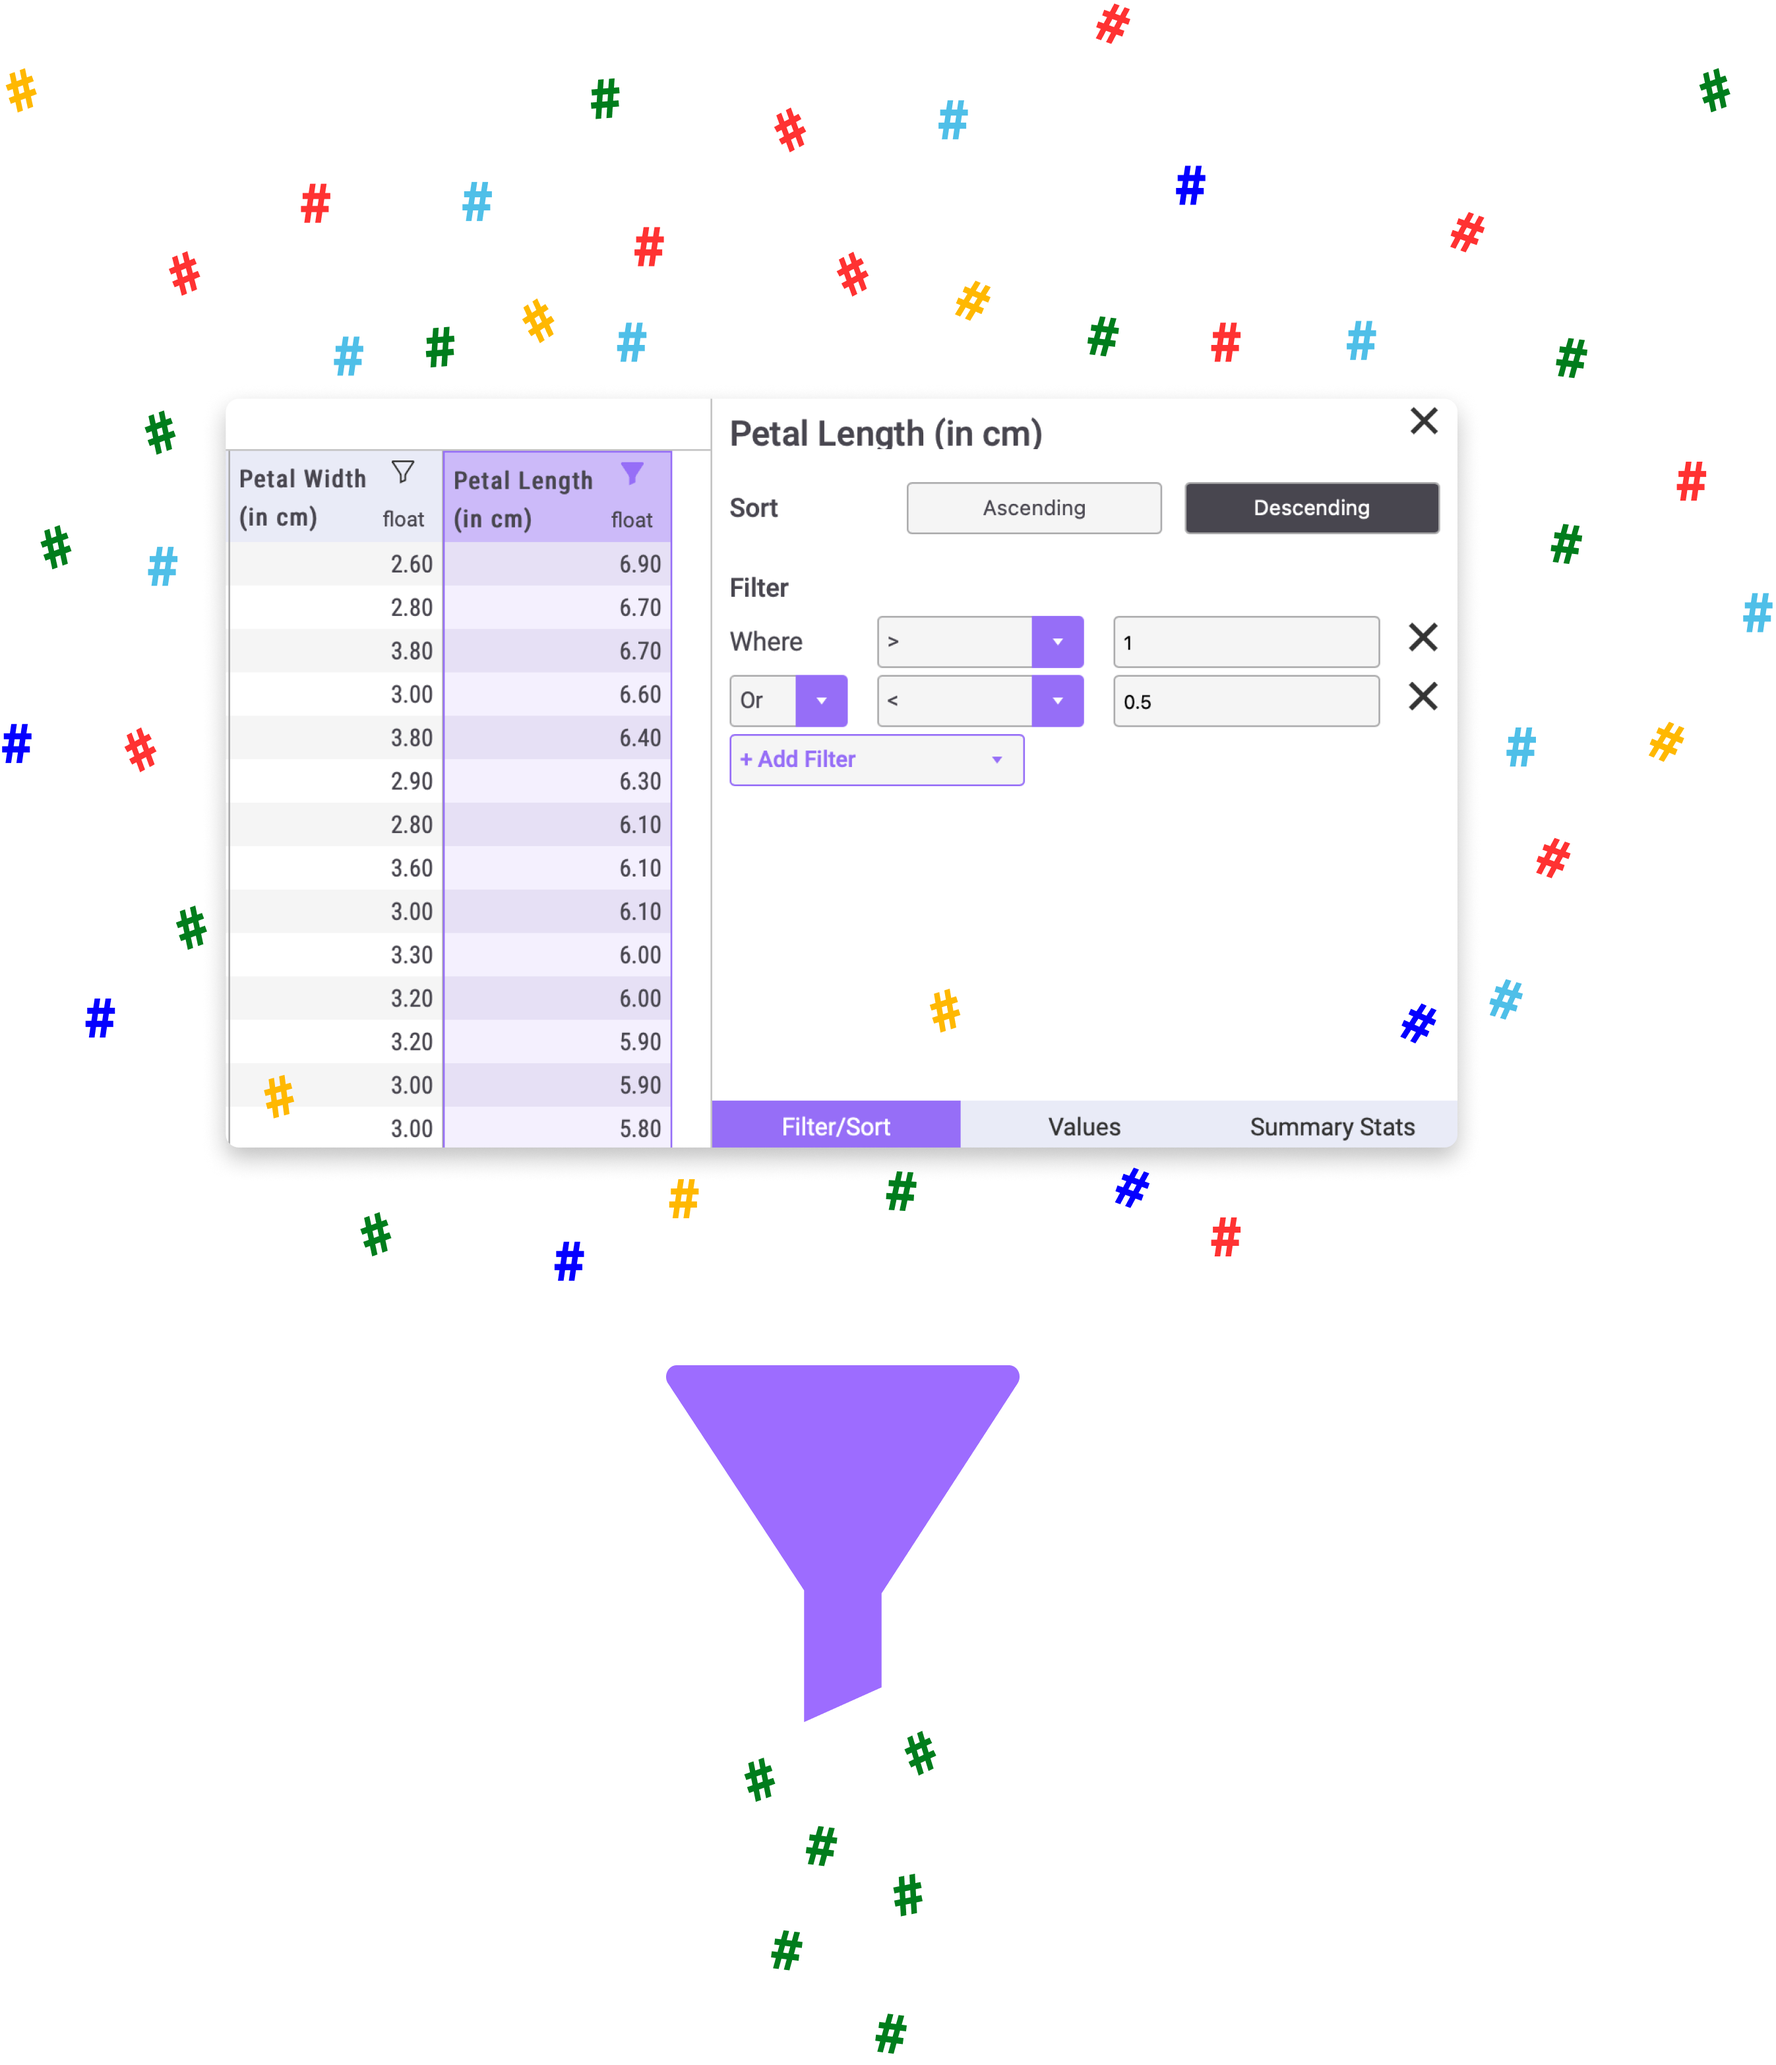
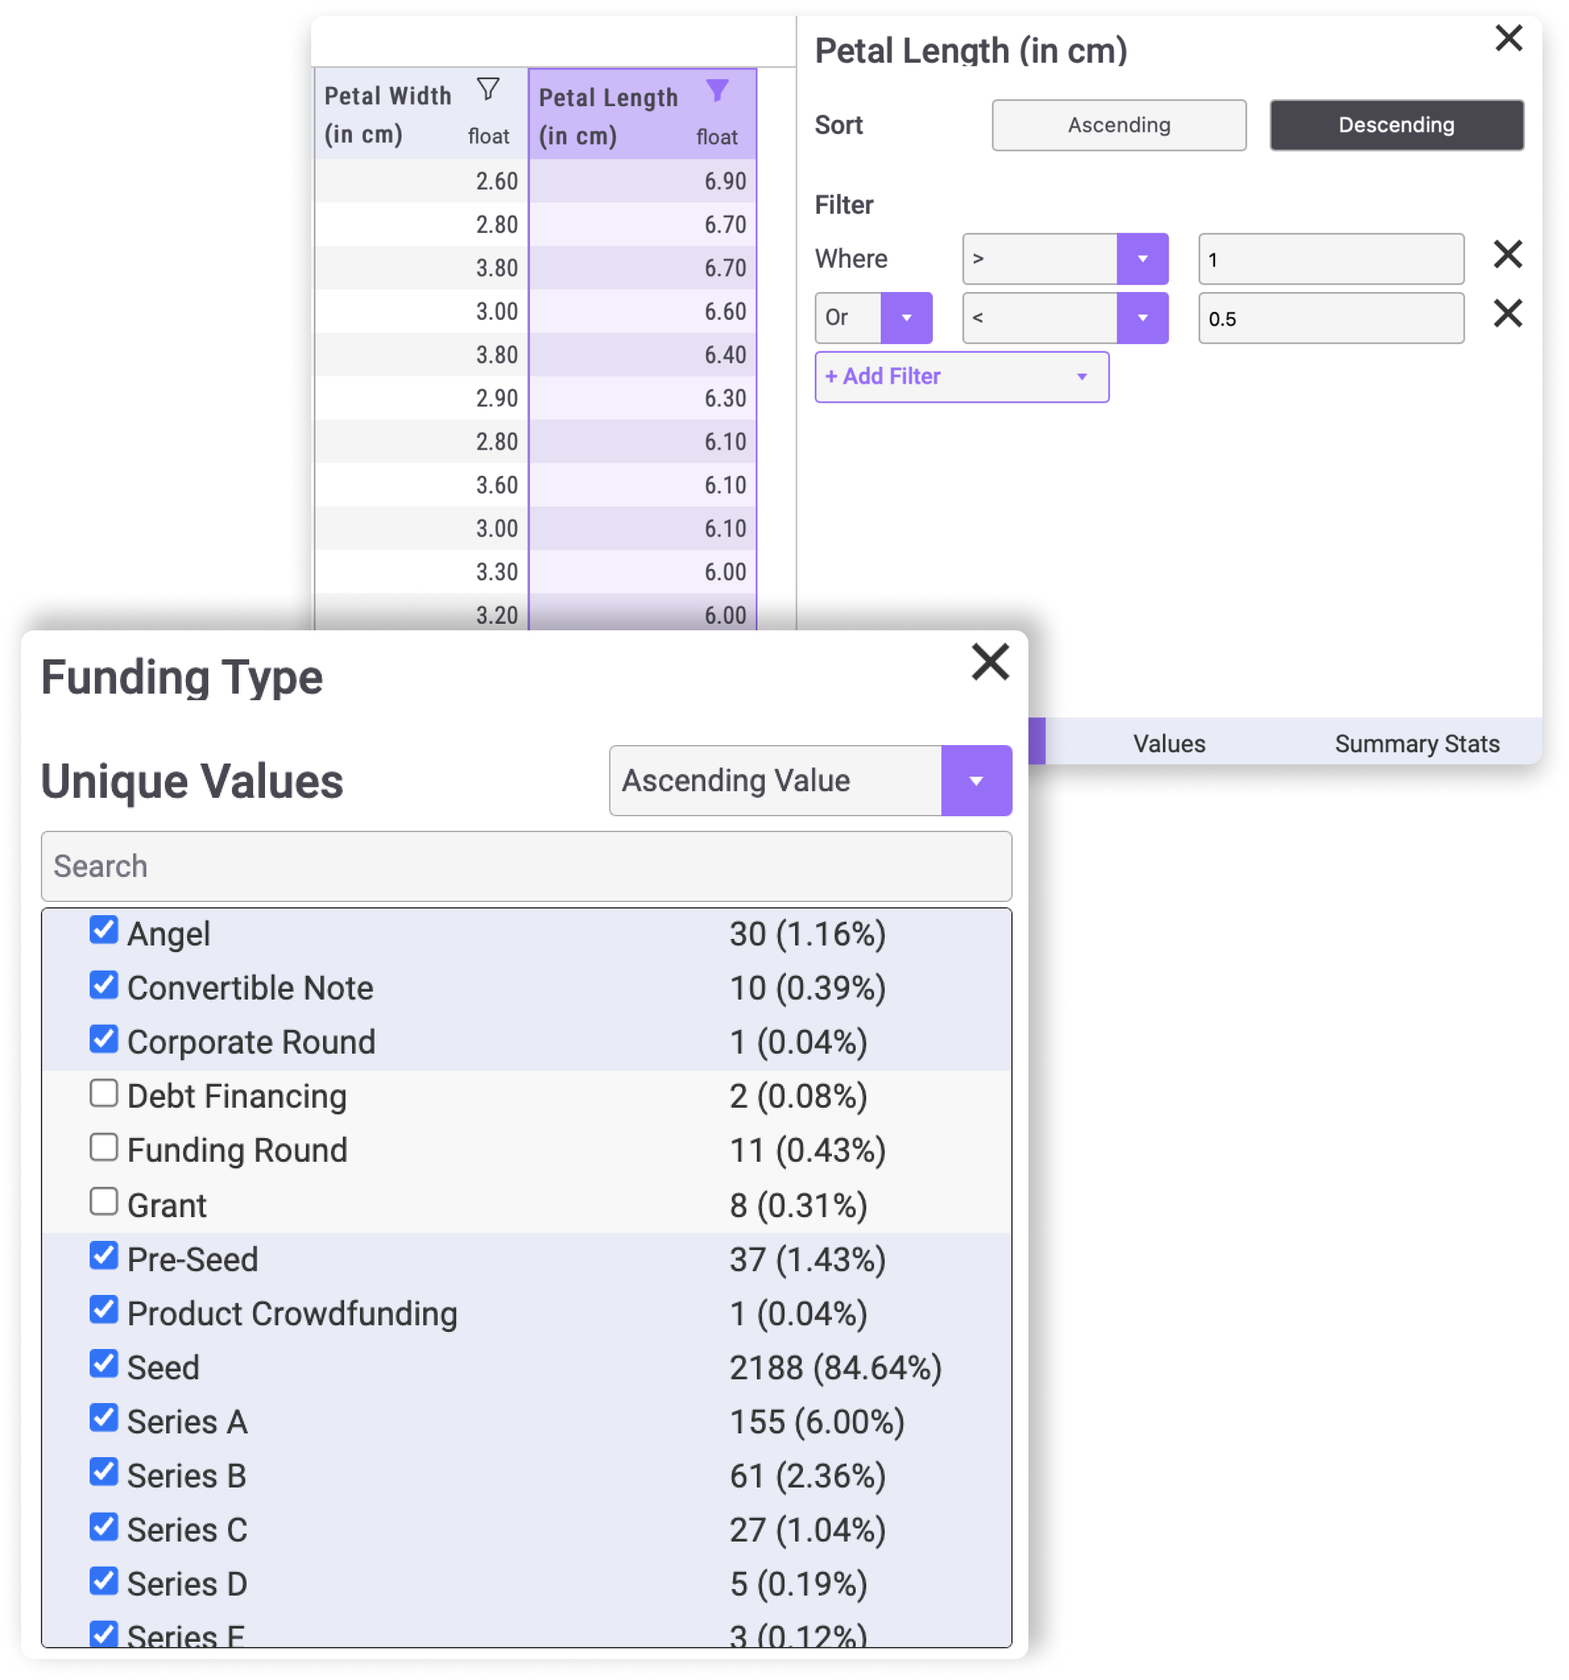
trymito: update filter image and links

diff --git a/trymito.io/pages/spreadsheet-automation.tsx b/trymito.io/pages/spreadsheet-automation.tsx
@@ -73,6 +73,9 @@ const SpreadsheetAutomation: NextPage = () => {
                 <p>
                   Edit your data just like you do in Excel, and receive production ready Python code. No searching Pandas documentation or Stack Overflow.
                 </p>
+                <p>
+                  See our <a href="https://blog.trymito.io/automating-spreadsheets-with-python-101/" target="_blank" rel="noreferrer" className={pageStyles.link}>guide to automating spreadsheet with Python.</a>
+                </p>
               </div>
               <div className={classNames(textImageSplitStyles.functionality_media, 'display-mobile-only-block')}>
                 <Image src={'/code_snippet.png'} alt='Mito generated code!' width={500} height={250} layout='responsive'/>
@@ -105,6 +108,9 @@ const SpreadsheetAutomation: NextPage = () => {
               <p>
                 We&apos;ve implemented all of Excel&apos;s most powerful features in Python so you don&apos;t have to. Keep using the tools you&apos;re most comfortable with, and automatically generate reusable Python code.
               </p>
+              <a href="https://docs.trymito.io/how-to/importing-data-to-mito" target="_blank" rel="noreferrer" className={pageStyles.link_with_p_tag_margins}>
+                View all 100+ transformations →
+              </a>
             </div>
             <div className={classNames(pageStyles.subsection)}>
               <div className={classNames(functionalityCardStyles.cards_container)}>
@@ -252,8 +258,8 @@ const SpreadsheetAutomation: NextPage = () => {
                   <Image 
                     objectFit="contain"
                     objectPosition="center"
-                    width={517} 
-                    height={560}
+                    width={576} 
+                    height={623}
                     src={'/filter_vertical.png'} 
                     alt='Filter in Mito' 
                   />
